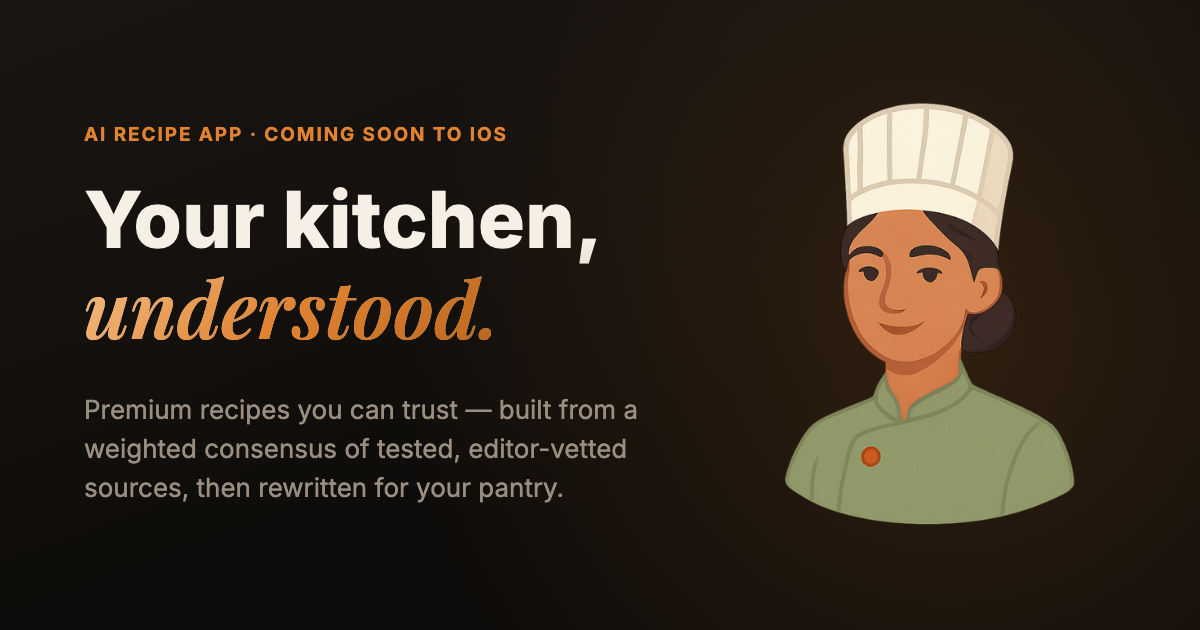
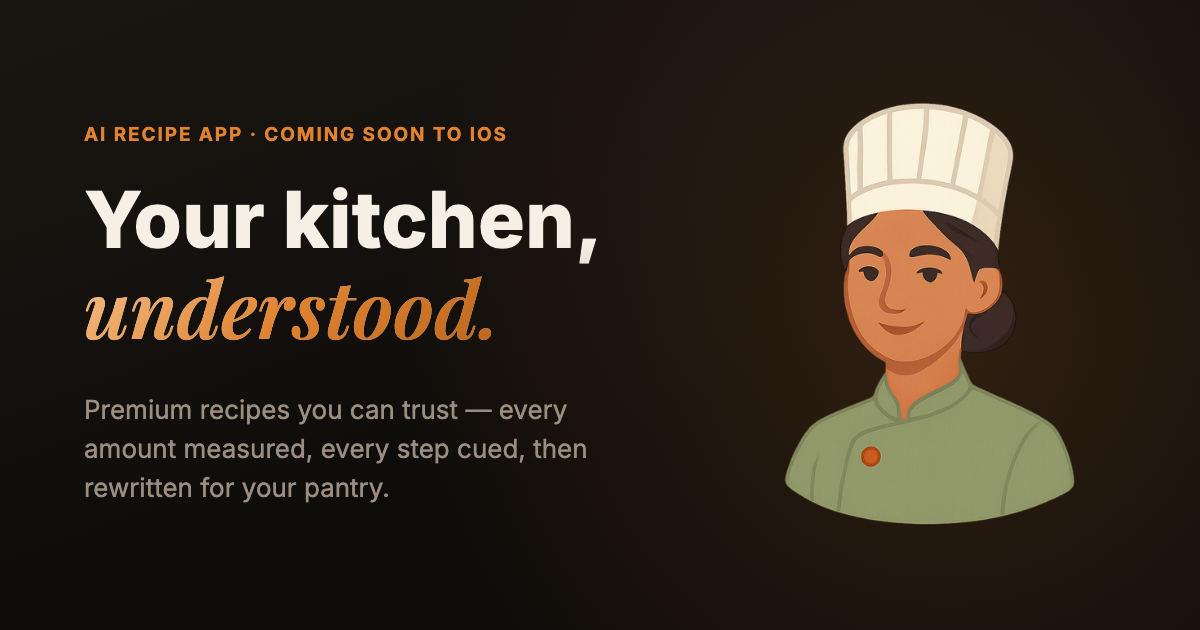
og cards: two shipped apps were still advertising "Coming to iOS"
storyvault/og-image.png read "AI ADVENTURES · COMING TO IOS" and
wingmate/og-image.png read "COMING TO IOS". StoryVault shipped 2026-08-17 and
Wingmate 2026-08-20. That PNG is the card every share renders - into X, Slack,
iMessage, everywhere - so both live consumer apps were telling anyone who saw a
shared link that they were not out yet.

The pages themselves were already right: storyvault's hero eyebrow reads
"Available now" and both carry App Store links (fetched 2026-08-21). Only the
cards were stale.

The comment justifying storyvault's kicker said 'NOT "· iOS": the page's eyebrow
says "Coming to iOS" and links no App Store'. Both halves of that premise have
expired, so it is replaced rather than silently overwritten. Kickers now follow
the fleet's "<category> · iOS" convention: "AI Adventures · iOS" and
"Dating coach · iOS". The other eight "Coming" kickers are accurate and untouched.

CACHE-BUSTER BUMPED, and this is the part that would have made the fix inert:
the generator never touches the ?v= token, and og:image / twitter:image on every
page hardcode ?v=20260811a. Shipping new bytes at a URL scrapers have already
cached means they keep serving the OLD card indefinitely. storyvault, wingmate
and saffra are now ?v=20260821a (2 refs each). Pages whose art did not change
keep the old token deliberately.

Carries a concurrent session's in-flight saffra work, at the owner's request:
their build_app_og.py fix replacing "a weighted consensus of tested,
[…]

Changed region(s): [[0.0617, 0.6937, 0.5242, 0.8143], [0.4008, 0.6333, 0.555, 0.6635]]

diff --git a/saffra/index.html b/saffra/index.html
@@ -66,14 +66,14 @@
   <meta property="og:description" content="The AI cooking app that doesn't improvise recipes on the fly. Every recipe arrives complete — amounts, prep, equipment and a cue for what done looks like. Adapted to your kitchen. Hands-free.">
   <meta property="og:url" content="https://hypersage.ai/saffra/">
   <meta property="og:site_name" content="Saffra">
-  <meta property="og:image" content="https://hypersage.ai/saffra/og-image.png?v=20260811a">
+  <meta property="og:image" content="https://hypersage.ai/saffra/og-image.png?v=20260821a">
   <meta property="og:image:width" content="1200">
   <meta property="og:image:height" content="630">
   <meta property="og:image:alt" content="Saffra — your kitchen, understood: Saffra the AI chef">
   <meta name="twitter:card" content="summary_large_image">
   <meta name="twitter:title" content="Saffra — Premium Recipes You Can Trust">
   <meta name="twitter:description" content="The AI cooking app that doesn't improvise recipes on the fly. Every recipe arrives complete — amounts, prep, equipment and a cue for what done looks like. Adapted to your kitchen.">
-  <meta name="twitter:image" content="https://hypersage.ai/saffra/og-image.png?v=20260811a">
+  <meta name="twitter:image" content="https://hypersage.ai/saffra/og-image.png?v=20260821a">
   <meta name="twitter:image:alt" content="Saffra — your kitchen, understood: Saffra the AI chef">
 
   <link rel="icon" type="image/png" href="saffra-hat.png">

diff --git a/storyvault/index.html b/storyvault/index.html
@@ -19,14 +19,14 @@
   <meta property="og:description" content="Write a world from a single line and the AI builds it out. Or step inside one of eighty complete classics and change where it goes.">
   <meta property="og:url" content="https://hypersage.ai/storyvault/">
   <meta property="og:site_name" content="StoryVault AI">
-  <meta property="og:image" content="https://hypersage.ai/storyvault/og-image.png?v=20260811a">
+  <meta property="og:image" content="https://hypersage.ai/storyvault/og-image.png?v=20260821a">
   <meta property="og:image:width" content="1200">
   <meta property="og:image:height" content="630">
   <meta property="og:image:alt" content="StoryVault AI — branching tales, written with you: a glowing gilded storybook">
   <meta name="twitter:card" content="summary_large_image">
   <meta name="twitter:title" content="StoryVault — AI Adventures">
   <meta name="twitter:description" content="Write your own world and the AI builds it out — or play one of eighty complete classics.">
-  <meta name="twitter:image" content="https://hypersage.ai/storyvault/og-image.png?v=20260811a">
+  <meta name="twitter:image" content="https://hypersage.ai/storyvault/og-image.png?v=20260821a">
   <meta name="twitter:image:alt" content="StoryVault AI — branching tales, written with you: a glowing gilded storybook">
 
   <link rel="icon" type="image/png" href="storyvault-mark.png">

diff --git a/wingmate/index.html b/wingmate/index.html
@@ -15,14 +15,14 @@
   <meta property="og:description" content="Four AI dating coaches with real perspectives. Screenshot analysis, platform-aware coaching, and personalized openers.">
   <meta property="og:url" content="https://hypersage.ai/wingmate/">
   <meta property="og:site_name" content="Wingmate">
-  <meta property="og:image" content="https://hypersage.ai/wingmate/og-image.png?v=20260811a">
+  <meta property="og:image" content="https://hypersage.ai/wingmate/og-image.png?v=20260821a">
   <meta property="og:image:width" content="1200">
   <meta property="og:image:height" content="630">
   <meta property="og:image:alt" content="Wingmate — AI dating coaches that actually get it">
   <meta name="twitter:card" content="summary_large_image">
   <meta name="twitter:title" content="Wingmate — AI Dating Coaches That Actually Get It">
   <meta name="twitter:description" content="Four AI dating coaches with real perspectives. Screenshot analysis, platform-aware coaching, and personalized openers.">
-  <meta name="twitter:image" content="https://hypersage.ai/wingmate/og-image.png?v=20260811a">
+  <meta name="twitter:image" content="https://hypersage.ai/wingmate/og-image.png?v=20260821a">
   <meta name="twitter:image:alt" content="Wingmate — AI dating coaches that actually get it">
 
   <link rel="icon" type="image/png" href="app-icon.png">

diff --git a/tools/build_app_og.py b/tools/build_app_og.py
@@ -114,8 +114,12 @@ CARDS = {
 """,
         # The page's own eyebrow ornament: .hero-eyebrow::before { content: '✦' }.
         "kicker_svg": '<svg viewBox="0 0 24 24" fill="currentColor"><path d="M12 1.6l2.3 7.8 7.8 2.3-7.8 2.3-2.3 7.8-2.3-7.8L1.9 11.7l7.8-2.3z"/></svg>',
-        # NOT "· iOS": the page's eyebrow says "Coming to iOS" and links no App Store.
-        "kicker": "AI Adventures · Coming to iOS",
+        # Was "· Coming to iOS", justified by "the page's eyebrow says Coming to
+        # iOS and links no App Store". BOTH halves of that premise expired: the app
+        # went live 2026-08-17, the page eyebrow now reads "Available now", and it
+        # carries 3 App Store links (fetched 2026-08-21). The card is the image every
+        # share renders, so it was telling people a shipped app was not out yet.
+        "kicker": "AI Adventures · iOS",
         "h1": 'Branching tales,<br><span class="grad">written with you.</span>',
         "sub": "Step into Beowulf, Dracula, or a world only the AI has dreamed. Every choice rewrites the next page.",
     },
@@ -143,7 +147,13 @@ CARDS = {
 """,
         "kicker": "AI recipe app · Coming soon to iOS",
         "h1": 'Your kitchen,<br><span class="ital">understood.</span>',
-        "sub": "Premium recipes you can trust — built from a weighted consensus of tested, editor-vetted sources, then rewritten for your pantry.",
+        # 2026-08-19: was "built from a weighted consensus of tested, editor-vetted
+        # sources" — a sourcing claim saffra-api cannot support (no request to any
+        # recipe publication is ever made; the trust weights were never computed).
+        # It shipped INTO THE RENDERED PNG, which is the card people see when the
+        # link is shared, so fixing the page alone would have left it live.
+        # Completeness is measured and gated: see saffra-ios store/check_frame_claims.py.
+        "sub": "Premium recipes you can trust — every amount measured, every step cued, then rewritten for your pantry.",
     },
     "quietoak": {
         "art": "companions/group-painting.png",
@@ -284,7 +294,9 @@ CARDS = {
          box-shadow: 0 24px 70px rgba(0,0,0,0.55), 0 0 90px rgba(232,168,56,0.24); }
 """,
         "kicker_svg": '<svg viewBox="0 0 24 24" fill="currentColor"><path d="M21 15a2 2 0 0 1-2 2H7l-4 4V5a2 2 0 0 1 2-2h14a2 2 0 0 1 2 2z"/></svg>',
-        "kicker": "Coming to iOS",
+        # Live since 2026-08-20; page links the App Store and says nothing about
+        # "coming". Follows the fleet's "<category> · iOS" kicker convention.
+        "kicker": "Dating coach · iOS",
         "h1": 'AI dating<br>coaches that<br><em>actually get&nbsp;it.</em>',
         "sub": "Four coaches, four perspectives. Drop a screenshot and get exact replies to send — platform-aware advice for Tinder, Hinge, Bumble, and texting.",
     },
